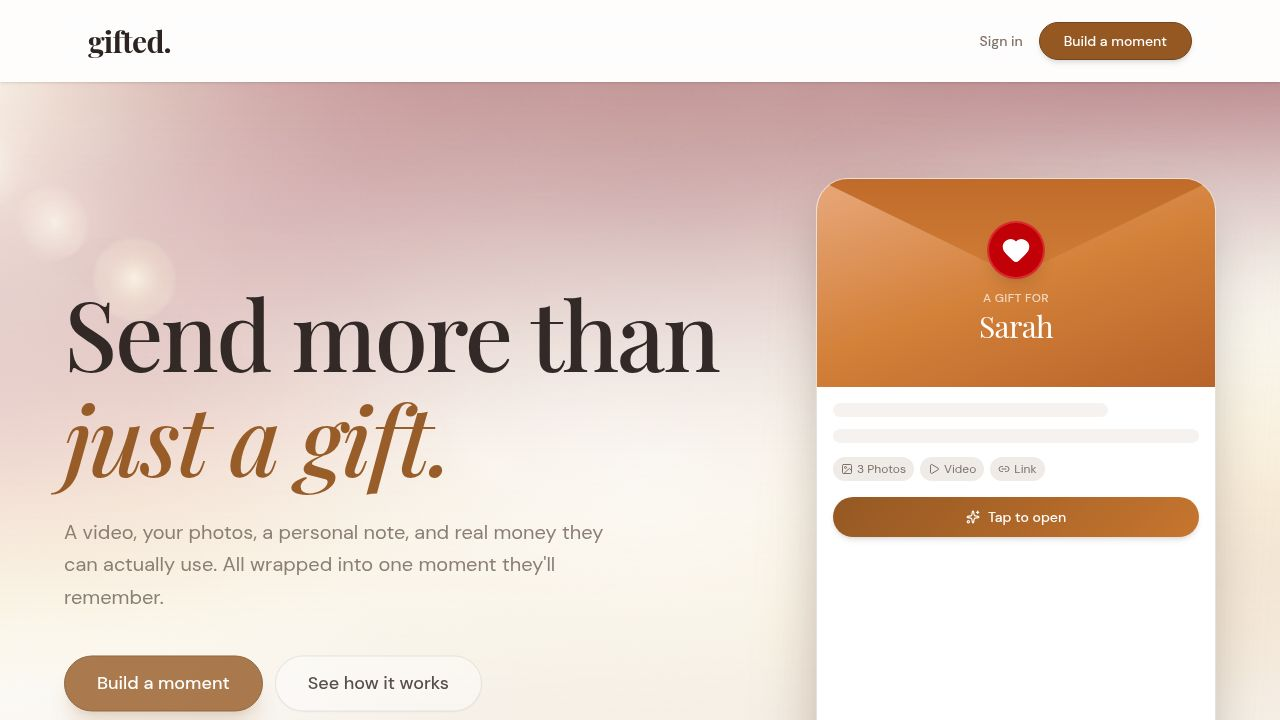
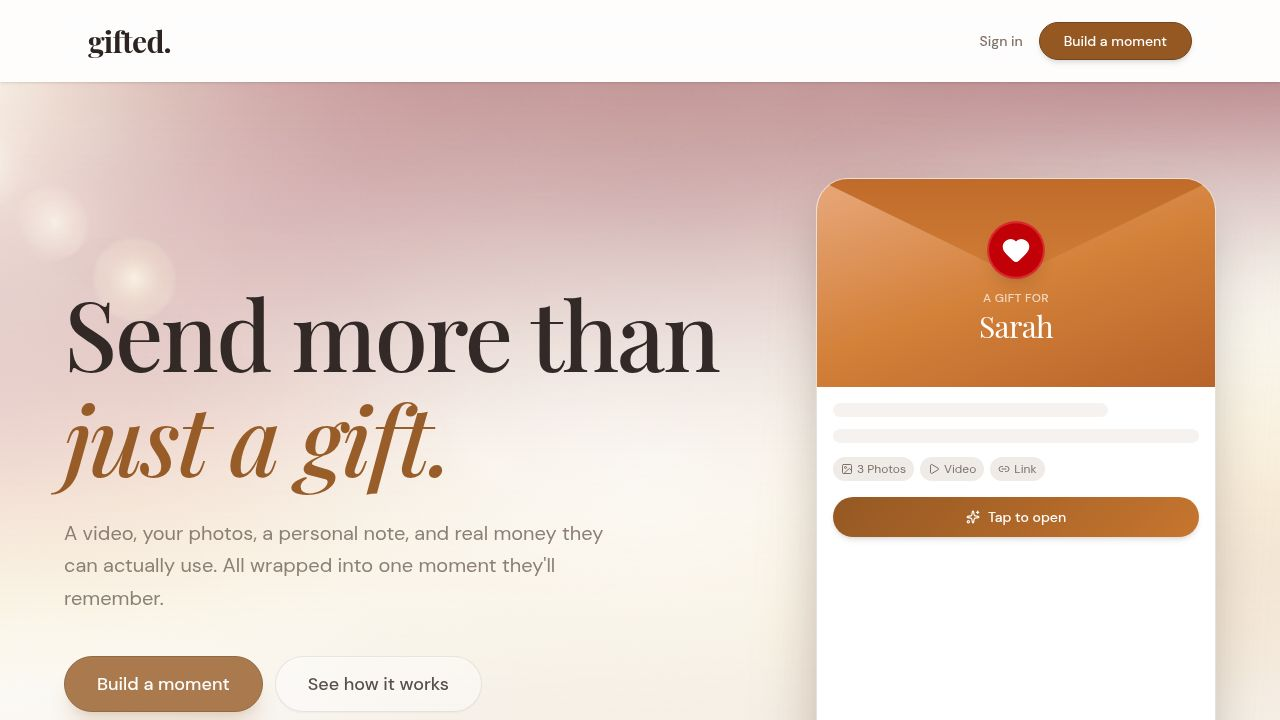
fix: Task #56 — Free gift UX: auth return, status label, copy button, sender view
T001 — Auth return URL (preview.tsx)
- Changed gifted_auth_return from `/my-gifts?claim=${giftId}` to `/preview` in
  both Google OAuth sign-in nudges (paid gift tracking + free gift tracking).
  Now after Google sign-in, sender returns to the preview page (gift link visible)
  instead of the dashboard.
- Removed `setLocation("/my-gifts")` redirect after email sign-in nudge submit.
  Sender stays on preview; auth state updates via refetch() already in place.
- Added silent claim useEffect: when isAuthenticated becomes true and a giftId
  exists, calls PATCH /api/gifted/gifts/:id/claim automatically. Handles Google
  OAuth return flow. Uses claimedRef to prevent duplicate calls.

T002 — Status label + copy button (my-gifts.tsx)
- Added "ready" to GiftStatus type and STATUS_META
  (label "Ready to share", amber color, Share2 icon).
- getStatus() now returns "ready" for free gifts (paid=true, no balance, not opened)
  before the existing "sent" check — so free gifts no longer show as "sent".
- Timeline effectiveStatus mapping: "ready" treated like "draft" (maps to first step
  but no steps are highlighted since done condition excludes "ready").
- CopyButton: added `full` prop. When full=true, renders a labeled pill button
  "Copy gift link" / "Copied!" with full-width styling in primary color.
- GiftCard action row restructured: for "ready" and "sent" status, the full CopyButton
  appears as primary CTA above the info row. Icon-only CopyButton hidden for those
[…]

diff --git a/artifacts/gifted/src/pages/my-gifts.tsx b/artifacts/gifted/src/pages/my-gifts.tsx
@@ -8,7 +8,7 @@ import {
   Gift, ExternalLink, CheckCircle2, Clock, Plus, Copy,
   Check, Sparkles, TrendingUp, Heart, Star,
   DollarSign, Package, Flower2, Snowflake, Sun, Eye, CalendarClock,
-  Inbox, Trash2, X,
+  Inbox, Trash2, X, Share2,
 } from "lucide-react";
 import { formatDistanceToNow, format } from "date-fns";
 import { clearGiftSession } from "@/lib/session";
@@ -75,7 +75,7 @@ async function fetchReceivedGifts(): Promise<ReceivedGiftSummary[]> {
   return res.json();
 }
 
-type GiftStatus = "draft" | "scheduled" | "sent" | "opened" | "redeemed";
+type GiftStatus = "draft" | "scheduled" | "ready" | "sent" | "opened" | "redeemed";
 
 function hasBalance(gift: GiftSummary): boolean {
   return !!gift.amount && parseFloat(gift.amount) > 0;
@@ -84,17 +84,19 @@ function hasBalance(gift: GiftSummary): boolean {
 function getStatus(gift: GiftSummary): GiftStatus {
   if (gift.redeemedAt && hasBalance(gift)) return "redeemed";
   if (gift.openedAt)   return "opened";
+  if (gift.paid && !hasBalance(gift)) return "ready";
   if (gift.paid)       return "sent";
   if (gift.scheduledFor && !gift.scheduleDelivered) return "scheduled";
   return "draft";
 }
 
 const STATUS_META: Record<GiftStatus, { label: string; color: string; bg: string; Icon: React.ComponentType<{ className?: string }> }> = {
-  draft:     { label: "Draft",     color: "#92400e", bg: "#fef3c7", Icon: Clock },
-  scheduled: { label: "Scheduled", color: "#0369a1", bg: "#e0f2fe", Icon: CalendarClock },
-  sent:      { label: "Sent",      color: "#1d4ed8", bg: "#dbeafe", Icon: Package },
-  opened:    { label: "Opened",    color: "#6d28d9", bg: "#ede9fe", Icon: Eye },
-  redeemed:  { label: "Redeemed",  color: "#15803d", bg: "#dcfce7", Icon: CheckCircle2 },
+  draft:     { label: "Draft",           color: "#92400e", bg: "#fef3c7", Icon: Clock },
+  scheduled: { label: "Scheduled",       color: "#0369a1", bg: "#e0f2fe", Icon: CalendarClock },
+  ready:     { label: "Ready to share",  color: "#b45309", bg: "#fef3c7", Icon: Share2 },
+  sent:      { label: "Sent",            color: "#1d4ed8", bg: "#dbeafe", Icon: Package },
+  opened:    { label: "Opened",          color: "#6d28d9", bg: "#ede9fe", Icon: Eye },
+  redeemed:  { label: "Redeemed",        color: "#15803d", bg: "#dcfce7", Icon: CheckCircle2 },
 };
 
 function greeting(firstName: string | null) {
@@ -126,7 +128,7 @@ function StatCard({ label, value, sub, Icon, delay }: {
   );
 }
 
-function CopyButton({ url }: { url: string }) {
+function CopyButton({ url, full = false }: { url: string; full?: boolean }) {
   const [copied, setCopied] = useState(false);
   const handleCopy = async (e: React.MouseEvent) => {
     e.preventDefault();
@@ -135,6 +137,23 @@ function CopyButton({ url }: { url: string }) {
     setCopied(true);
     setTimeout(() => setCopied(false), 2000);
   };
+
+  if (full) {
+    return (
+      <button
+        onClick={handleCopy}
+        className="w-full h-10 flex items-center justify-center gap-2 rounded-xl bg-primary/10 border border-primary/20 text-primary font-medium text-sm hover:bg-primary/20 transition-all"
+      >
+        <AnimatePresence mode="wait">
+          {copied
+            ? <motion.span key="check" className="flex items-center gap-2" initial={{ opacity: 0, scale: 0.8 }} animate={{ opacity: 1, scale: 1 }} exit={{ opacity: 0, scale: 0.8 }}><Check className="w-4 h-4 text-green-600" /><span className="text-green-700">Copied!</span></motion.span>
+            : <motion.span key="copy" className="flex items-center gap-2" initial={{ opacity: 0, scale: 0.8 }} animate={{ opacity: 1, scale: 1 }} exit={{ opacity: 0, scale: 0.8 }}><Copy className="w-4 h-4" />Copy gift link</motion.span>
+          }
+        </AnimatePresence>
+      </button>
+    );
+  }
+
   return (
     <button
       onClick={handleCopy}
@@ -253,13 +272,13 @@ function GiftCard({ gift, idx }: { gift: GiftSummary; idx: number }) {
               const orderedStatuses: GiftStatus[] = isScheduled
                 ? (giftHasBalance ? ["scheduled", "sent", "opened", "redeemed"] : ["scheduled", "sent", "opened"])
                 : (giftHasBalance ? ["sent", "opened", "redeemed"] : ["sent", "opened"]);
-              const effectiveStatus: GiftStatus = (status === "draft" || status === "scheduled")
+              const effectiveStatus: GiftStatus = (status === "draft" || status === "scheduled" || status === "ready")
                 ? (isScheduled ? "scheduled" : "sent")
                 : status;
               const statusIdx = orderedStatuses.indexOf(effectiveStatus);
               const isLastStep = (i: number) => i === steps.length - 1;
               return steps.map((step, i) => {
-                const done = i <= statusIdx && status !== "draft";
+                const done = i <= statusIdx && status !== "draft" && status !== "ready";
                 const isFinalCompleted = done && isLastStep(i);
                 const StepIcon = isFinalCompleted && !giftHasBalance && step === "opened"
                   ? CheckCircle2
@@ -336,41 +355,52 @@ function GiftCard({ gift, idx }: { gift: GiftSummary; idx: number }) {
                 animate={{ opacity: 1, y: 0 }}
                 exit={{ opacity: 0, y: -4 }}
                 transition={{ duration: 0.15 }}
-                className="flex items-center justify-between gap-2"
+                className="flex flex-col gap-2"
+                onClick={(e) => e.stopPropagation()}
               >
-                <div className="flex items-center gap-2 flex-wrap">
-                  <span className="text-xs text-muted-foreground">
-                    {status === "redeemed" && gift.redeemedAt
-                      ? `Redeemed ${formatDistanceToNow(new Date(gift.redeemedAt), { addSuffix: true })}`
-                      : status === "opened" && gift.openedAt
-                        ? `Opened ${formatDistanceToNow(new Date(gift.openedAt), { addSuffix: true })}`
-                        : status === "sent"
-                          ? `Sent ${format(new Date(gift.createdAt), "MMM d, yyyy")}`
-                        : status === "scheduled" && gift.scheduledFor
-                          ? `Scheduled for ${format(new Date(gift.scheduledFor), "MMM d, yyyy")}`
-                          : `Draft · ${format(new Date(gift.createdAt), "MMM d, yyyy")}`}
-                  </span>
-                </div>
+                {(status === "ready" || status === "sent") && (
+                  <CopyButton url={shareUrl} full />
+                )}
 
-                <div className="flex items-center gap-1 shrink-0">
-                  <CopyButton url={shareUrl} />
-                  <a
-                    href={`${shareUrl}?preview=true`}
-                    target="_blank"
-                    rel="noopener noreferrer"
-                    title="Preview gift"
-                    onClick={(e) => e.stopPropagation()}
-                    className="p-2 rounded-full text-muted-foreground hover:text-foreground hover:bg-secondary transition-all"
-                  >
-                    <ExternalLink className="w-4 h-4" />
-                  </a>
-                  <button
-                    title="Remove from dashboard"
-                    onClick={(e) => { e.stopPropagation(); setConfirmDelete(true); }}
-                    className="p-2 rounded-full text-muted-foreground hover:text-destructive hover:bg-destructive/10 transition-all"
-                  >
-                    <Trash2 className="w-4 h-4" />
-                  </button>
+                <div className="flex items-center justify-between gap-2">
+                  <div className="flex items-center gap-2 flex-wrap">
+                    <span className="text-xs text-muted-foreground">
+                      {status === "redeemed" && gift.redeemedAt
+                        ? `Redeemed ${formatDistanceToNow(new Date(gift.redeemedAt), { addSuffix: true })}`
+                        : status === "opened" && gift.openedAt
+                          ? `Opened ${formatDistanceToNow(new Date(gift.openedAt), { addSuffix: true })}`
+                          : status === "sent"
+                            ? `Sent ${format(new Date(gift.createdAt), "MMM d, yyyy")}`
+                          : status === "ready"
+                            ? `Created ${format(new Date(gift.createdAt), "MMM d, yyyy")}`
+                          : status === "scheduled" && gift.scheduledFor
+                            ? `Scheduled for ${format(new Date(gift.scheduledFor), "MMM d, yyyy")}`
+                            : `Draft · ${format(new Date(gift.createdAt), "MMM d, yyyy")}`}
+                    </span>
+                  </div>
+
+                  <div className="flex items-center gap-1 shrink-0">
+                    {status !== "ready" && status !== "sent" && (
+                      <CopyButton url={shareUrl} />
+                    )}
+                    <a
+                      href={`${shareUrl}?preview=true`}
+                      target="_blank"
+                      rel="noopener noreferrer"
+                      title="Preview gift"
+                      onClick={(e) => e.stopPropagation()}
+                      className="p-2 rounded-full text-muted-foreground hover:text-foreground hover:bg-secondary transition-all"
+                    >
+                      <ExternalLink className="w-4 h-4" />
+                    </a>
+                    <button
+                      title="Remove from dashboard"
+                      onClick={(e) => { e.stopPropagation(); setConfirmDelete(true); }}
+                      className="p-2 rounded-full text-muted-foreground hover:text-destructive hover:bg-destructive/10 transition-all"
+                    >
+                      <Trash2 className="w-4 h-4" />
+                    </button>
+                  </div>
                 </div>
               </motion.div>
             )}

diff --git a/artifacts/gifted/src/pages/open.tsx b/artifacts/gifted/src/pages/open.tsx
@@ -2,7 +2,7 @@ import React, { useState, useEffect } from "react";
 import { useParams } from "wouter";
 import { Link, useLocation } from "wouter";
 import { Button } from "@/components/ui/button";
-import { Loader2, AlertCircle, Gift, LogIn, Send } from "lucide-react";
+import { Loader2, AlertCircle, Gift, LogIn, Send, Copy, Check } from "lucide-react";
 import { useAuth } from "@/lib/auth-context";
 
 const RevealPage = React.lazy(() => import("@/pages/reveal"));
@@ -39,6 +39,7 @@ export default function OpenPage() {
   const [giftRecipientName, setGiftRecipientName] = useState<string>("");
   const [revealed, setRevealed] = useState(false);
   const [saveStatus, setSaveStatus] = useState<"idle" | "saving" | "saved" | "claimed">("idle");
+  const [senderCopied, setSenderCopied] = useState(false);
 
   useEffect(() => {
     if (!id) {
@@ -161,6 +162,12 @@ export default function OpenPage() {
 
   // Sender view — shown when the logged-in user is the one who created this gift
   const isSender = !authLoading && isAuthenticated && user && giftSenderUserId && user.id === giftSenderUserId;
+  const handleSenderCopy = async () => {
+    await navigator.clipboard.writeText(window.location.href);
+    setSenderCopied(true);
+    setTimeout(() => setSenderCopied(false), 2000);
+  };
+
   if (isSender) {
     return (
       <div className="min-h-screen flex flex-col items-center justify-center bg-background p-6 text-center">
@@ -168,20 +175,32 @@ export default function OpenPage() {
           <Send className="w-9 h-9 text-primary" />
         </div>
         <h1 className="font-serif text-3xl mb-3">You sent this gift</h1>
-        <p className="text-muted-foreground mb-8 max-w-sm">
+        <p className="text-muted-foreground mb-6 max-w-sm">
           This gift is on its way to <span className="font-medium text-foreground">{giftRecipientName}</span>. They'll see the full surprise when they open it.
         </p>
-        <div className="flex flex-col sm:flex-row gap-3">
-          <Link href="/my-gifts">
-            <Button className="rounded-xl w-full sm:w-auto">
-              View sent gifts
-            </Button>
-          </Link>
-          <Link href="/">
-            <Button variant="outline" className="rounded-xl w-full sm:w-auto">
-              Go home
-            </Button>
-          </Link>
+        <div className="flex flex-col gap-3 w-full max-w-xs">
+          <Button
+            onClick={handleSenderCopy}
+            className="w-full rounded-xl gap-2"
+          >
+            {senderCopied ? (
+              <><Check className="w-4 h-4" /> Copied!</>
+            ) : (
+              <><Copy className="w-4 h-4" /> Copy gift link</>
+            )}
+          </Button>
+          <div className="flex gap-3">
+            <Link href="/my-gifts" className="flex-1">
+              <Button variant="outline" className="rounded-xl w-full">
+                Back to dashboard
+              </Button>
+            </Link>
+            <Link href="/" className="flex-1">
+              <Button variant="outline" className="rounded-xl w-full">
+                Go home
+              </Button>
+            </Link>
+          </div>
         </div>
       </div>
     );

diff --git a/artifacts/gifted/src/pages/preview.tsx b/artifacts/gifted/src/pages/preview.tsx
@@ -310,6 +310,19 @@ export default function PreviewPage() {
     }
   }, [isAuthenticated, authLoading]); // eslint-disable-line react-hooks/exhaustive-deps
 
+  // Silently claim the gift when the user signs in (handles Google OAuth return)
+  const claimedRef = useRef(false);
+  useEffect(() => {
+    if (!isAuthenticated || authLoading || claimedRef.current) return;
+    const id = giftId || localStorage.getItem("gifted_gift_id");
+    if (!id) return;
+    claimedRef.current = true;
+    fetch(`${base}/api/gifted/gifts/${id}/claim`, {
+      method: "PATCH",
+      credentials: "include",
+    }).catch(() => {});
+  }, [isAuthenticated, authLoading, giftId, base]);
+
   // Fire signup_nudge_shown once when the paid nudge becomes visible
   const nudgeShownFiredRef = useRef(false);
   useEffect(() => {
@@ -463,7 +476,6 @@ export default function PreviewPage() {
           credentials: "include",
         }).catch(() => {});
       }
-      setLocation("/my-gifts");
     } catch {
       setNudgeError("Unable to connect. Please try again.");
     } finally {
@@ -991,7 +1003,7 @@ export default function PreviewPage() {
                         <button
                           type="button"
                           onClick={() => {
-                            if (giftId) localStorage.setItem("gifted_auth_return", `/my-gifts?claim=${giftId}`);
+                            if (giftId) localStorage.setItem("gifted_auth_return", `/preview`);
                             window.location.href = `${base}/api/auth/google`;
                           }}
                           className="w-full h-10 flex items-center justify-center gap-2.5 rounded-xl border border-green-300 bg-white hover:bg-green-50 dark:border-green-700 dark:bg-green-950/30 dark:hover:bg-green-900/40 transition-colors text-sm font-medium text-green-900 dark:text-green-300"
@@ -1060,7 +1072,7 @@ export default function PreviewPage() {
                         <button
                           type="button"
                           onClick={() => {
-                            if (giftId) localStorage.setItem("gifted_auth_return", `/my-gifts?claim=${giftId}`);
+                            if (giftId) localStorage.setItem("gifted_auth_return", `/preview`);
                             window.location.href = `${base}/api/auth/google`;
                           }}
                           className="w-full h-10 flex items-center justify-center gap-2.5 rounded-xl border border-green-300 bg-white hover:bg-green-50 dark:border-green-700 dark:bg-green-950/30 dark:hover:bg-green-900/40 transition-colors text-sm font-medium text-green-900 dark:text-green-300"